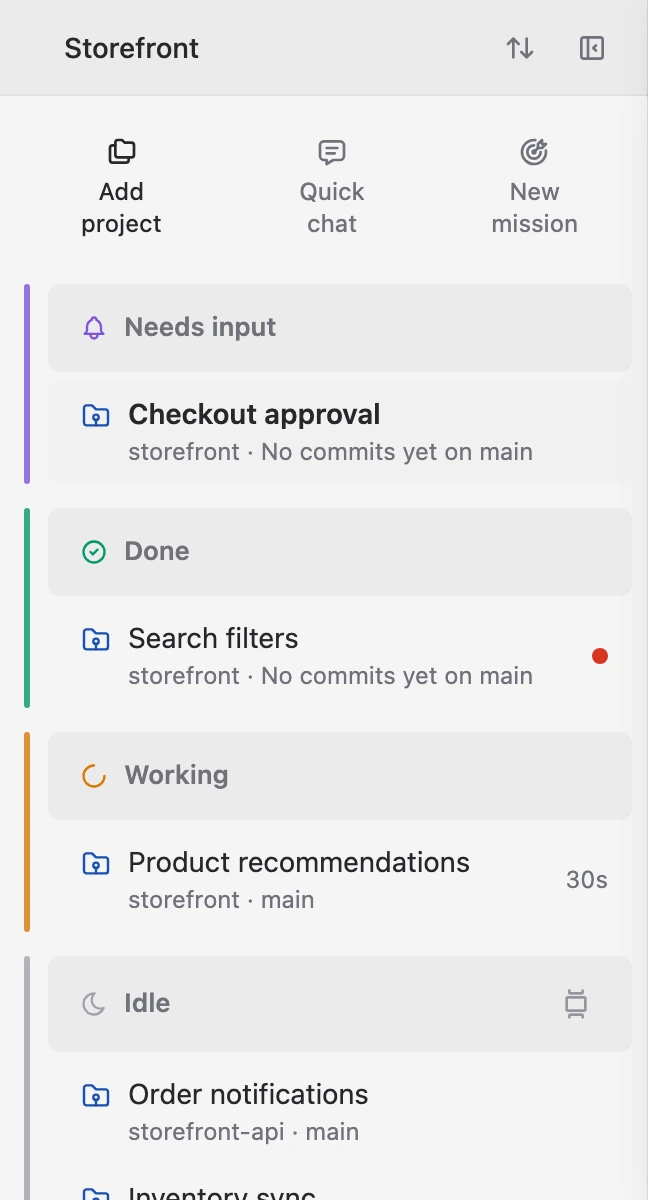
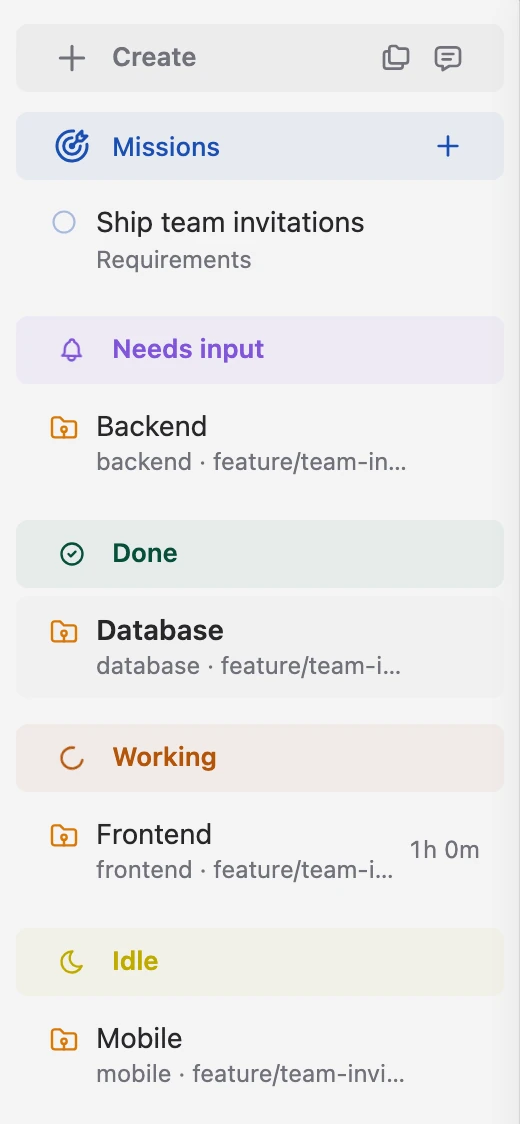
feat: show activity and feature focus modes on website

diff --git a/website/index.html b/website/index.html
@@ -42,7 +42,7 @@
       href="https://fonts.googleapis.com/css2?family=Inter:wght@400;450;500;600&family=JetBrains+Mono:wght@400;500&display=swap"
       rel="stylesheet"
     />
-    <link rel="stylesheet" href="styles.css?v=walkthrough-1" />
+    <link rel="stylesheet" href="styles.css?v=focus-views-2" />
   </head>
   <body>
     <header class="site-header shell">
@@ -333,31 +333,82 @@
             />
           </article>
           <article
-            class="capability capability-wide capability-activity reveal"
+            id="focus-views"
+            class="capability capability-wide capability-focus reveal"
+            aria-labelledby="focus-views-title"
           >
-            <div>
-              <span class="capability-label">ACTIVITY VIEW</span>
-              <h3>Focus on what needs you next.</h3>
-              <p>
-                Bring questions, approvals, and unread results into focus.
-                Unblock the work that needs you, then let your agents keep
-                moving—without checking every conversation.
-                <a
-                  class="text-link"
-                  href="/docs/features/workspace.html#organize-agents-by-activity"
-                  >Work by activity <span aria-hidden="true">↗</span></a
-                >
-              </p>
+            <h3 id="focus-views-title">Choose how you want to focus.</h3>
+            <div class="focus-modes">
+              <figure>
+                <div class="focus-preview focus-preview-activity">
+                  <img
+                    class="capability-shot"
+                    src="assets/screens/activity.webp?v=activity-2"
+                    width="520"
+                    height="1124"
+                    alt="Korus Activity view grouping Backend, Database, Frontend, and Mobile into Needs input, Done, Working, and Idle"
+                    loading="lazy"
+                    decoding="async"
+                  />
+                </div>
+                <figcaption>
+                  <h4>By activity</h4>
+                  <p>
+                    Bring questions, approvals, and unread results into focus.
+                    Unblock the work that needs you without checking every
+                    conversation.
+                  </p>
+                  <a
+                    class="text-link"
+                    href="/docs/features/workspace.html#organize-agents-by-activity"
+                    >Work by activity <span aria-hidden="true">↗</span></a
+                  >
+                </figcaption>
+              </figure>
+              <figure>
+                <div class="focus-preview">
+                  <img
+                    class="capability-shot"
+                    src="assets/screens/worktree.webp"
+                    width="520"
+                    height="664"
+                    alt="Korus Worktree view grouping Backend, Database, Frontend, and Mobile under Team invitations"
+                    loading="lazy"
+                    decoding="async"
+                  />
+                </div>
+                <figcaption>
+                  <h4>By feature</h4>
+                  <p>
+                    Keep matching worktrees together across repositories. Open
+                    the feature’s agents in split view to follow every part of
+                    the work.
+                  </p>
+                  <a
+                    class="text-link focus-demo"
+                    href="__FEATURE_VIDEO__"
+                    data-watch-feature
+                    data-captions="__FEATURE_CAPTIONS__"
+                    aria-haspopup="dialog"
+                    aria-controls="walkthrough"
+                  >
+                    <svg
+                      width="16"
+                      height="16"
+                      viewBox="0 0 24 24"
+                      fill="none"
+                      stroke="currentColor"
+                      stroke-width="1.8"
+                      stroke-linejoin="round"
+                      aria-hidden="true"
+                    >
+                      <path d="m8 5 11 7-11 7Z" />
+                    </svg>
+                    Watch one feature span four repos
+                  </a>
+                </figcaption>
+              </figure>
             </div>
-            <img
-              class="capability-shot"
-              src="assets/screens/activity.webp?v=activity-1"
-              width="648"
-              height="1200"
-              alt="Korus Activity view grouping storefront agents into Needs input, Done, Working, and Idle"
-              loading="lazy"
-              decoding="async"
-            />
           </article>
           <article class="capability reveal">
             <span class="capability-label">QUICK CHAT</span>
@@ -781,6 +832,6 @@
       </div>
       <div class="walkthrough-player"></div>
     </dialog>
-    <script src="script.js?v=walkthrough-2"></script>
+    <script src="script.js?v=focus-views-1"></script>
   </body>
 </html>

diff --git a/website/script.js b/website/script.js
@@ -137,26 +137,56 @@ watch.addEventListener("click", (event) => {
 });
 selectShowcase(0);
 
-// YouTube loads only after intent; removing the frame stops its audio on close.
+// Load either recording only after intent; remove its player on close.
 const walkthrough = document.querySelector("#walkthrough");
-const walkthroughLink = document.querySelector("[data-watch-walkthrough]");
-walkthroughLink.addEventListener("click", (event) => {
-  if (event.metaKey || event.ctrlKey || event.shiftKey || event.altKey) return;
-  if (typeof walkthrough.showModal !== "function") return;
-  event.preventDefault();
-  pauseShowcase();
-  pauseFilms();
-  const player = document.createElement("iframe");
-  player.src =
-    "https://www.youtube-nocookie.com/embed/O_2bpL8IXNM?autoplay=1&rel=0&playsinline=1&cc_load_policy=1";
-  player.title = "Delegate, review, and merge AI coding work with Korus";
-  player.allow = "autoplay; encrypted-media; picture-in-picture; fullscreen";
-  player.allowFullscreen = true;
-  player.referrerPolicy = "strict-origin-when-cross-origin";
-  walkthrough.querySelector(".walkthrough-player").replaceChildren(player);
-  document.documentElement.classList.add("watching-video");
-  walkthrough.showModal();
-});
+let walkthroughOpener;
+for (const link of document.querySelectorAll(
+  "[data-watch-walkthrough], [data-watch-feature]",
+)) {
+  link.addEventListener("click", (event) => {
+    if (event.metaKey || event.ctrlKey || event.shiftKey || event.altKey)
+      return;
+    if (typeof walkthrough.showModal !== "function") return;
+    event.preventDefault();
+    pauseShowcase();
+    pauseFilms();
+    walkthroughOpener = link;
+    const feature = link.hasAttribute("data-watch-feature");
+    const player = document.createElement(feature ? "video" : "iframe");
+    const title = walkthrough.querySelector("h2");
+    const fallback = walkthrough.querySelector("a");
+    fallback.href = link.href;
+    fallback.textContent = feature ? "Open video" : "Watch on YouTube";
+    title.textContent = feature
+      ? "One feature. Across your repositories."
+      : "Korus in action";
+    if (feature) {
+      player.src = link.href;
+      player.controls = true;
+      player.playsInline = true;
+      const track = document.createElement("track");
+      track.src = link.dataset.captions;
+      track.kind = "captions";
+      track.srclang = "en";
+      track.label = "English";
+      track.default = true;
+      player.append(track);
+      track.track.mode = "showing";
+    } else {
+      player.src =
+        "https://www.youtube-nocookie.com/embed/O_2bpL8IXNM?autoplay=1&rel=0&playsinline=1&cc_load_policy=1";
+      player.title = "Delegate, review, and merge AI coding work with Korus";
+      player.allow =
+        "autoplay; encrypted-media; picture-in-picture; fullscreen";
+      player.allowFullscreen = true;
+      player.referrerPolicy = "strict-origin-when-cross-origin";
+    }
+    walkthrough.querySelector(".walkthrough-player").replaceChildren(player);
+    document.documentElement.classList.add("watching-video");
+    walkthrough.showModal();
+    if (feature) player.play().catch(() => {});
+  });
+}
 walkthrough
   .querySelector("button")
   .addEventListener("click", () => walkthrough.close());
@@ -172,8 +202,10 @@ walkthrough.addEventListener("click", (event) => {
     walkthrough.close();
 });
 walkthrough.addEventListener("close", () => {
+  walkthrough.querySelector("video")?.pause();
   walkthrough.querySelector(".walkthrough-player").replaceChildren();
   document.documentElement.classList.remove("watching-video");
+  walkthroughOpener?.focus({ preventScroll: true });
 });
 
 // Keep MP4s off the network until a visitor chooses a film. The cover is a

diff --git a/website/styles.css b/website/styles.css
@@ -225,7 +225,7 @@ body > .site-header {
   border: 1px solid transparent;
 }
 .hero-actions .button-secondary {
-  border-color: var(--ink);
+  border: 1px solid var(--ink);
   color: var(--ink);
   background: var(--paper);
 }
@@ -337,7 +337,8 @@ html.watching-video {
 .walkthrough-player {
   aspect-ratio: 16 / 9;
 }
-.walkthrough-player iframe {
+.walkthrough-player iframe,
+.walkthrough-player video {
   display: block;
   width: 100%;
   height: 100%;
@@ -744,8 +745,7 @@ html.watching-video {
 .capability-wide {
   grid-column: span 2;
 }
-.capability-mobile,
-.capability-activity {
+.capability-mobile {
   display: grid;
   grid-template-columns: repeat(2, minmax(0, 1fr));
   align-items: center;
@@ -753,34 +753,80 @@ html.watching-video {
   min-height: 0;
   padding: clamp(24px, 4vw, 56px);
 }
-.capability-mobile h3,
-.capability-activity h3 {
+.capability-mobile h3 {
   margin: 14px 0 0;
   font-size: clamp(28px, 3.4vw, 42px);
   line-height: 1.05;
   letter-spacing: -0.04em;
 }
-.capability-mobile p,
-.capability-activity p {
+.capability-mobile p {
   margin: 16px 0 0;
   font-size: 17px;
 }
-.capability-mobile .capability-shot,
-.capability-activity .capability-shot {
+.capability-mobile .capability-shot {
   width: auto;
   max-width: 100%;
-  max-height: 520px;
-  margin: 0 auto;
-}
-.capability-mobile .capability-shot {
   max-height: 480px;
+  margin: 0 auto;
   border: 0;
   border-radius: 0;
   background: transparent;
   box-shadow: none;
 }
-.capability-activity .capability-shot {
-  max-width: min(100%, 340px);
+.capability-focus {
+  padding: clamp(24px, 4vw, 56px);
+}
+.capability-focus h3 {
+  max-width: none;
+  margin: 0 0 32px;
+  font-size: clamp(28px, 3.4vw, 42px);
+  letter-spacing: -0.03em;
+}
+.focus-modes {
+  display: grid;
+  grid-template-columns: repeat(2, minmax(0, 1fr));
+  gap: 40px;
+}
+.focus-modes figure {
+  min-width: 0;
+  margin: 0;
+}
+.focus-preview {
+  display: flex;
+  align-items: center;
+  justify-content: center;
+  height: clamp(360px, 40vw, 520px);
+  margin-bottom: 24px;
+}
+.focus-preview .capability-shot {
+  width: auto;
+  max-width: min(100%, 300px);
+  max-height: 100%;
+  margin: 0;
+  box-shadow: none;
+}
+.focus-modes h4 {
+  margin: 0 0 10px;
+  font-size: 21px;
+  font-weight: 600;
+  letter-spacing: -0.02em;
+}
+.focus-modes p {
+  margin-bottom: 16px;
+}
+.focus-modes .text-link {
+  color: var(--blue);
+  font-size: 15px;
+  font-weight: 500;
+}
+.focus-demo {
+  display: inline-flex;
+  align-items: center;
+  gap: 8px;
+}
+.focus-demo:focus-visible {
+  outline: 2px solid var(--blue);
+  outline-offset: 4px;
 }
 .capability-dark {
   color: #fff;
@@ -1046,11 +1092,17 @@ html.watching-video {
   }
   .capability-grid,
   .capability-mobile,
-  .capability-activity {
+  .focus-modes {
     grid-template-columns: minmax(0, 1fr);
   }
   .capability-wide {
     grid-column: auto;
+  }
+  .focus-preview {
+    height: auto;
+  }
+  .focus-preview-activity .capability-shot {
+    max-width: min(100%, 240px);
   }
   .section-heading {
     display: block;

diff --git a/website/README.md b/website/README.md
@@ -110,9 +110,11 @@ The Skills capture shows the real Discover panel with its curated catalog in an
 isolated preview. It contains no private skill names, provider accounts, or
 repository data.
 
-The Activity view capture focuses on the sidebar so its priorities remain
-readable. It uses isolated Storefront demo agents, including a pending question,
-an unread result, and a running task; no private workspace or account data is shown.
+The Activity and Worktree captures focus on the sidebars so their grouping stays
+readable. Both use the current renderer with isolated Backend, Database, Frontend,
+and Mobile demo agents. Activity shows representative Needs input, Done, Working,
+and Idle states alongside a Mission. Worktree groups those repositories under
+Team invitations. No private workspace or account data is shown.
 
 The simulator card uses `assets/screens/simulator.svg`: an illustration of the
 simulator pane with an embedded, unaltered capture of iOS Settings. The surrounding
@@ -132,6 +134,21 @@ opening it pauses the inline films. Closing with Escape, the close button, or
 the backdrop removes the player and restores focus and page scrolling. The
 button links directly to YouTube without JavaScript, and the dialog keeps a
 YouTube link available if embedded playback is unavailable.
+
+The workspace feature block pairs Activity and Worktree views under **Choose how
+you want to focus**. The Activity screenshot shows priorities across the team;
+`assets/screens/worktree.webp` shows a feature spanning four repositories. The
+Worktree example includes a short real desktop recording with the Calm American voice, English captions, and a fixed full-window
+frame. It opens in the same large dialog, with sound and native video controls.
+The MP4 and VTT load only on click; the action opens the MP4 directly without
+JavaScript. The public YouTube version is <https://youtu.be/AyfZ28x41wY>.
+
+Keep the approved `multi-repo-feature.mp4` and `multi-repo-feature.vtt` under
+`videos/local/multi-repo-feature/` (override with `APP_FEATURE_FILM`). These are
+local recording masters, not rebuildable illustrations: preserve them with their
+raw recording, checked narration, and edit manifest. The website build requires
+both files and publishes content-hashed copies in `media/`. The matching YouTube
+thumbnail is `videos/assets/multi-repo-feature-thumbnail.png`.
 
 Feature-card films open from their rendered poster frame. No MP4 is requested
 until the visitor clicks; native controls provide seeking and fullscreen. Only one
